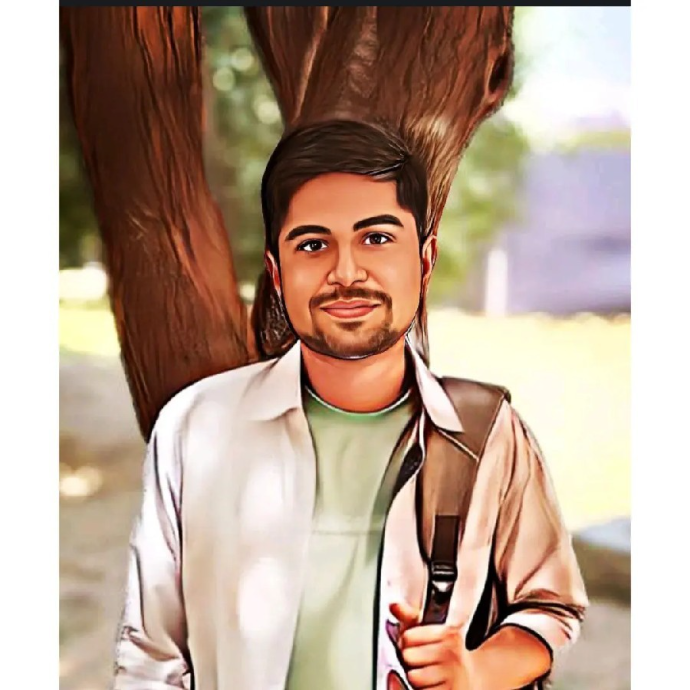
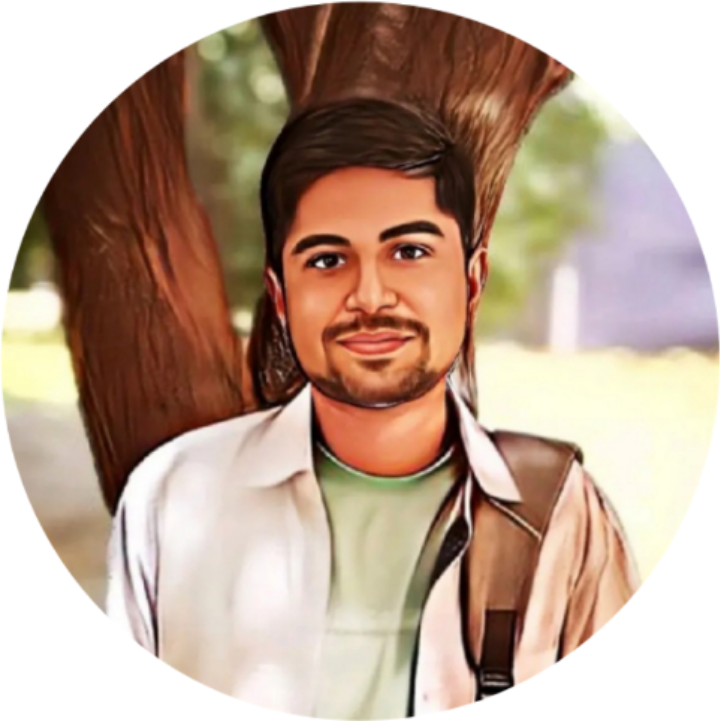
working on mobile view

diff --git a/assets/css/styles.css b/assets/css/styles.css
@@ -280,10 +280,65 @@ img {
 }
 .home__blob-img{
   width: 170px;
-  
+
+}
+.home__data{
+  grid-column: 1/3;
+
+}
+
+.home__title{
+  font-size: var(--big-font-size);
+
+}
+.home__subtitle{
+  font-size: var(--h3-font-size);
+  color: var(--text-color);
+  font-weight: var(--font-medium);
+  margin-bottom: var(--mb-0-75);
+
+}
+.home__description{
+  margin-bottom: var(--mb-2);
+
+}
+.home__scroll{
+  /*display: none; */
+
+}
+.home__scroll-button{
+  color: var(--first-color);
+  transition: .3s;
+
+}
+.home__scroll-button:hover{
+  transform: translateY(0.25rem);
+
+}
+.home__scroll-mouse{
+  font-size: 2rem;
+
+}
+.home__scroll-name{
+  font-size: var(--smaller-font-size);
+  color: var(--title-color);
+  font-weight: var(--font-medium);
+  margin-right: var(--mb-0-25);
+
+}
+.home__scroll-arrow{
+  font-size: 1.25rem;
 }
 /*==================== BUTTONS ====================*/
-
+.button{
+  display: inline-block;
+  background-color: var(--first-color);
+  color: #FFF;
+  padding: 1rem;
+  border-radius: .5rem;
+  font-weight: var(--font-medium);
+  
+}
 
 /*==================== ABOUT ====================*/
 

diff --git a/index.html b/index.html
@@ -102,7 +102,7 @@
                             165.547 130.807 187.559 100.226 186.353C69.6454 185.297 41.0228 161.023 21.7403 
                             129.362C2.45775 97.8511 -7.48481 59.1033 6.67581 34.5279C20.9871 10.1032 59.7028 
                             -0.149132 97.9666 0.00163737C136.23 0.303176 174.193 10.857 190.312 36.4879Z"/>
-                            <image class="home__blob-img" x="12" y="18" xlink:href="assets/img/profile.png"/>
+                            <image class="home__blob-img" x="20" y="18" xlink:href="assets/img/profile.png"/>
                         </g>
                     </svg>
                 </div>
